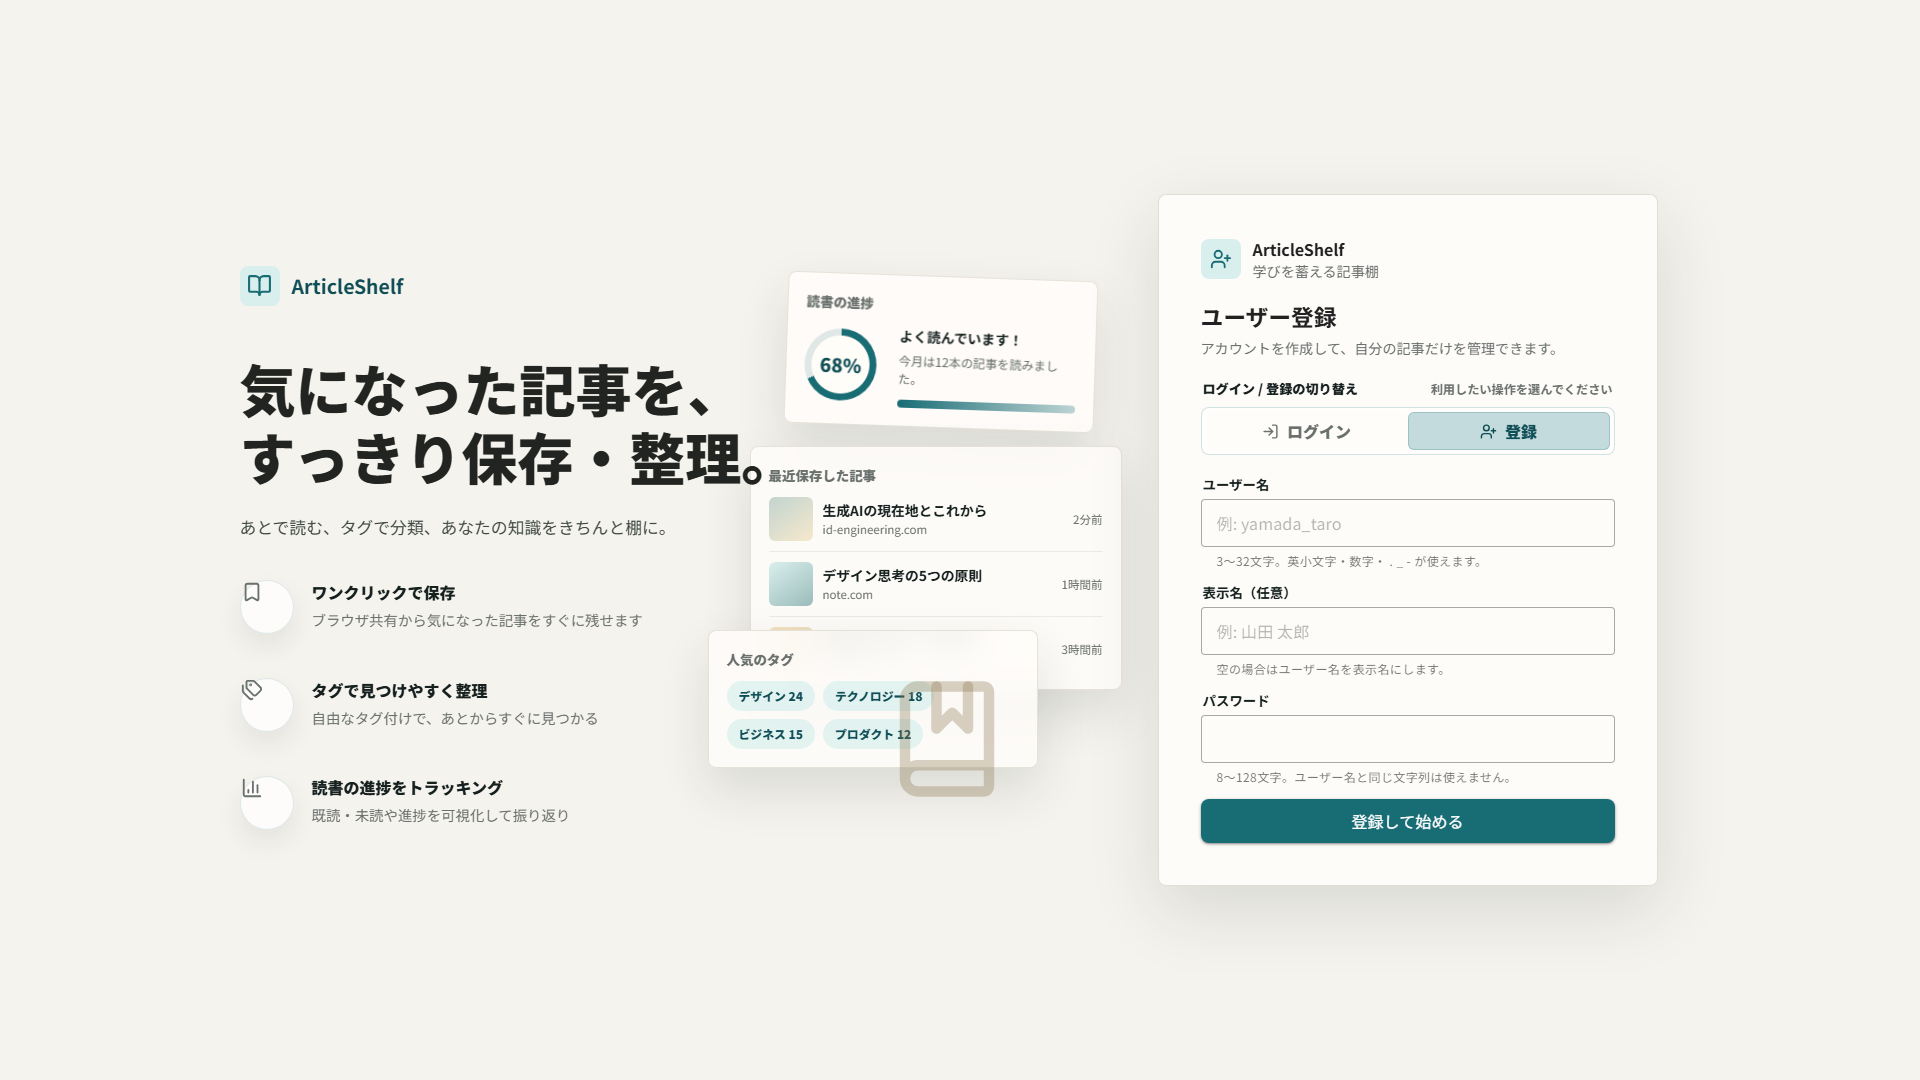
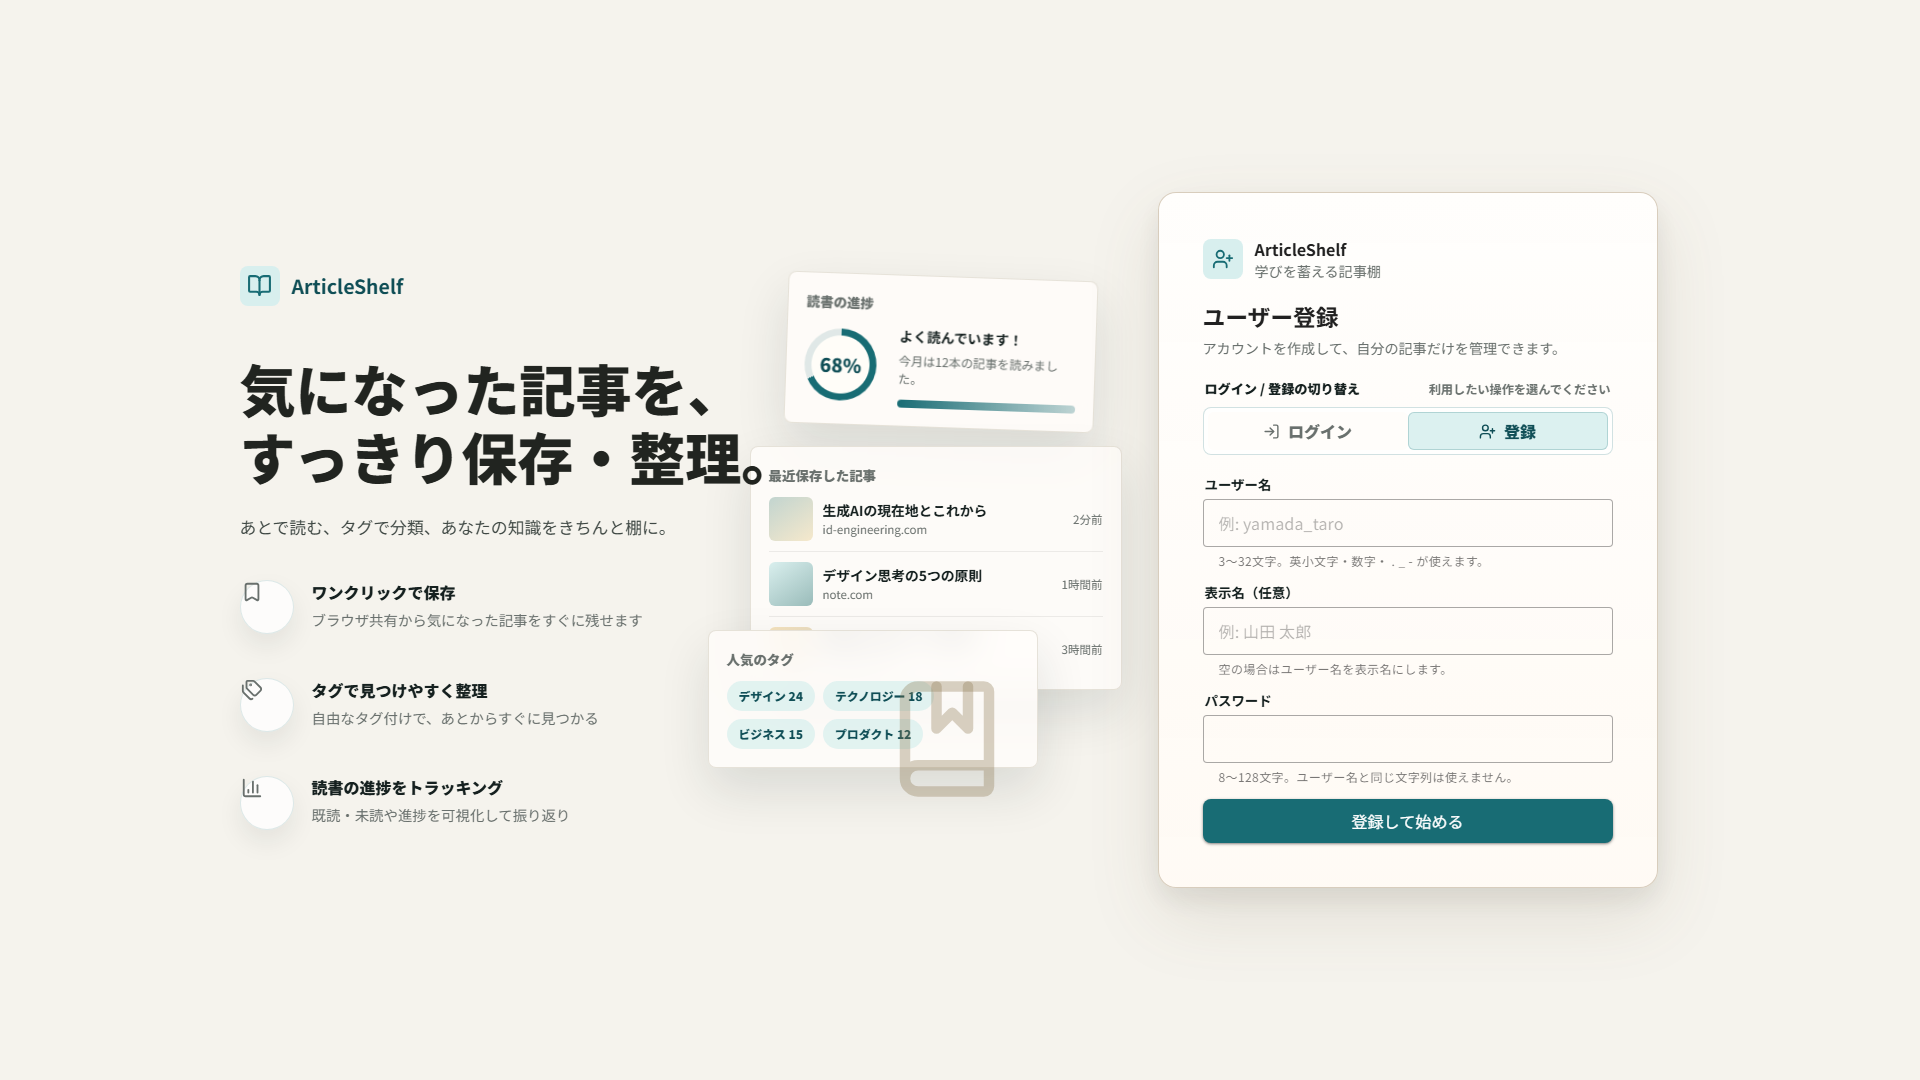
feat: improve auth form card contrast and update styles for better visibility

diff --git a/frontend/src/styles/layout.css b/frontend/src/styles/layout.css
@@ -523,12 +523,15 @@
   justify-self: end;
   width: min(500px, 100%);
   gap: 20px;
-  padding: clamp(28px, 3vw, 42px);
-  background: rgba(255, 253, 250, 0.88);
-  border: 1px solid rgba(222, 217, 206, 0.86);
-  border-radius: 8px;
-  box-shadow: 0 24px 70px rgba(27, 41, 39, 0.13);
-  backdrop-filter: blur(20px);
+  padding: clamp(30px, 3vw, 44px);
+  background:
+    linear-gradient(180deg, rgba(255, 254, 252, 0.97) 0%, rgba(255, 250, 245, 0.94) 100%);
+  border: 1px solid rgba(214, 203, 186, 0.96);
+  border-radius: 18px;
+  box-shadow:
+    0 28px 72px rgba(108, 89, 58, 0.13),
+    0 12px 28px rgba(27, 41, 39, 0.08);
+  backdrop-filter: blur(18px);
 }
 
 .auth-brand {

diff --git a/docs/designs/components/auth.md b/docs/designs/components/auth.md
@@ -9,6 +9,7 @@ AuthScreen の設計ルールをまとめる。
 - 1920x1080 など標準的なデスクトップ表示では1画面内に収め、フォームや視覚カードが viewport 高に収まらない短い画面や高倍率表示ではページ内スクロールを許可する
 - 左カラムの視覚カードは実データではなく機能イメージとして扱い、フォーム操作や認証状態には影響させない
 - タブレット幅以下ではフォーム操作を優先し、左カラムの視覚カードは非表示にしてブランドコピーとフォームを縦に並べる
+- フォームカードは背景より一段明るい面、細い border、やわらかい shadow、やや大きめの角丸で自然に分離し、ヒーロー側の視覚カードより主張しすぎないコントラストに保つ
 - ログイン / ユーザー登録の入力欄は、ブラウザの自動入力と重ならないよう、ラベルを入力欄の外に固定表示する
 - ログイン / ユーザー登録の切り替えは、見出し直下に補助ラベル付きのセグメントコントロールとして置き、アイコン・背景・文字色で現在選択中の操作を明確に示す
 - プレースホルダーは補助例示に限定し、項目名や入力ルールの代替として使わない

diff --git a/docs/requirements/backlog/archive/2026-05.md b/docs/requirements/backlog/archive/2026-05.md
@@ -4,6 +4,7 @@
 
 ## 完了タスク
 
+- Auth form card contrast 改善: 認証フォームカードの背景グラデーション、border、shadow、角丸、内側余白を調整し、背景と自然に分離して見えるようにした。auth design docs、UI specs、認証画面スクリーンショットも現行 UI に同期した。
 - SECURITY.md 追加: repository root に security policy を追加し、public issue を避ける private reporting flow、supported scope、報告時に含めてほしい情報、best-effort の対応プロセスを明記した。README と security specs から入口を辿れるようにした。
 - Flyway baseline migration の意図整理: V1 baseline migration が新規 schema と既存開発 DB の統合救済を兼ねる理由を data architecture / data specs に明記し、適用済み migration は rewrite せず新しい versioned migration で進める方針と PostgreSQL 実体での確認方針を testing docs に反映した。
 - Backend quality gates の見せ方整理: README、backend architecture、CI / CD architecture、testing docs に、SpotBugs、Clean Architecture dependency test、domain / application coverage threshold、PostgreSQL IT、E2E の役割分担と CI 上の段階構成を追記した。

diff --git a/docs/specs/ui/README.md b/docs/specs/ui/README.md
@@ -110,6 +110,7 @@
 
 - デスクトップ幅では、左側に ArticleShelf の価値訴求、保存・タグ・進捗の説明、機能イメージカードを表示し、右側にログイン / ユーザー登録フォームを表示する
 - タブレット幅以下では、機能イメージカードを省略し、ブランドコピーとフォームを縦に配置する
+- フォームカードは背景より少し明るい面、薄い border、やわらかい shadow、丸みのある角で自然に分離し、主要操作領域として視認できる状態を保つ
 - ログイン / ユーザー登録では、ユーザー名、表示名、パスワードの入力エラーを送信前に画面上で確認できるようにする
 - ユーザー名は 3〜32文字の英小文字・数字・ドット・アンダースコア・ハイフンとして扱い、入力時は小文字へ正規化する
 - ユーザー登録時の表示名は任意とし、未入力の場合は正規化済みユーザー名を表示名として使う。フォーム上では「任意」と表示し、未入力時の扱いをヒントで示す

diff --git a/docs/requirements/backlog/pending/README.md b/docs/requirements/backlog/pending/README.md
@@ -32,7 +32,6 @@
 
 ### P3
 
-- [Improve auth form card contrast](improve-auth-form-card-contrast.md)
 - [Remove auth mode help copy](remove-auth-mode-help-copy.md)
 - [Refine auth hero mockup layout](refine-auth-hero-mockup-layout.md)
 
